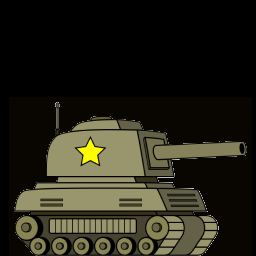
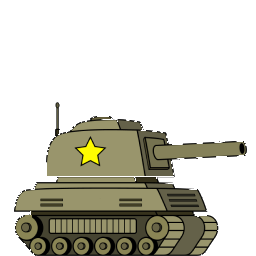
add background

diff --git a/archergame.js b/archergame.js
@@ -43,7 +43,6 @@ class Base_Scene extends Scene {
             arrow: new Arrow(),
             sky: new Square(),
             particle: new Square(),
-
         };
 
         this.shapes.ground.arrays.texture_coord = this.shapes.ground.arrays.texture_coord.map(v => vec(v[0]*3, v[1]*3))
@@ -92,6 +91,11 @@ class Base_Scene extends Scene {
                 color: hex_color("#000000"),
                 ambient: 0.9, diffusivity: 0.1, specularity: 0.1,
                 texture: new Texture("assets/sky.png", "LINEAR_MIPMAP_LINEAR"),
+             }),
+             background: new Material(new Textured_Phong(), {
+                color: hex_color("#000000"),
+                ambient: 0.9, diffusivity: 0.1, specularity: 0.1,
+                texture: new Texture("assets/background1.jpg", "LINEAR_MIPMAP_LINEAR"),
              }),
         };
         this.first = true;
@@ -152,9 +156,9 @@ class Element {
         }
         this.x += this.dx;
         
-        if (this.wind_direction == "North"){
+        if (this.wind_direction == "Up"){
             this.dy += 0.001 * this.wind;
-        } else if (this.wind_direction == "South"){
+        } else if (this.wind_direction == "Down"){
             this.dy -= 0.001 * this.wind;
         }
         this.y += this.dy;
@@ -191,11 +195,11 @@ export class ArcherGame extends Base_Scene {
         this.direction = Math.floor(Math.random() * 4) + 1;
         
         if (this.direction == 1){
-            this.wind_direction1 = "North";
+            this.wind_direction1 = "Up";
         } else if (this.direction == 2){
             this.wind_direction1 = "East";
         } else if (this.direction == 3){
-            this.wind_direction1 = "South";
+            this.wind_direction1 = "Down";
         } else if (this.direction == 4){
             this.wind_direction1 = "West";
         } else if (this.direction < 1 || this.direction > 4) {
@@ -206,7 +210,7 @@ export class ArcherGame extends Base_Scene {
 
         this.tower = new Element(0, 0, 10, this.materials.tower, 0, 0);
         this.sky = new Element(0, 0, 30, this.materials.sky, 0, -1);
-        this.archer = new Element(-20, 2.5, 5, this.materials.tank, 0, 0);
+        this.archer = new Element(-30, 2.5, 5, this.materials.tank, 0, 0);
         this.target = new Element(20, this.level + 104.5, 5, this.materials.bunker, 0, 0);
         this.ground = new Element(-97, -102.5, 100, this.materials.grass, 0, 0, 1.1, false); 
         this.ground2 = new Element(97, this.level, 100, this.materials.grass, 0, 0, 1.1, false);
@@ -299,6 +303,10 @@ export class ArcherGame extends Base_Scene {
     }
 
     drawObjects(context, program_state) {
+        this.shapes.square.draw(context, program_state,
+            Mat4.identity()
+            .times(Mat4.translation(0, -40, -1))
+            .times(Mat4.scale(80, 80, 1)), this.materials.background);
 //         this.shapes.sky.draw(context, program_state, ...this.sky.update(context, program_state));
         this.shapes.tower.draw(context, program_state, 
             Mat4.identity().times(Mat4.scale(3, 10, 1)).times(Mat4.translation(0, 0.75, 0))
@@ -339,7 +347,7 @@ export class ArcherGame extends Base_Scene {
         if (this.exploding) {
             for (let i = 0; i < NUM_PARTICLES; i++) {
                 const particle_transform = Mat4.identity()
-                .times(Mat4.translation(this.projectile.x + (Math.random()*(20)-10), this.projectile.y + (Math.random()*(20)-10), 0));
+                .times(Mat4.translation(this.projectile.x + (Math.random()*(10)-5), this.projectile.y + (Math.random()*(10)-5), 1));
                 this.shapes.particle.draw(context, program_state, particle_transform, this.materials.particle);
             }
         }
